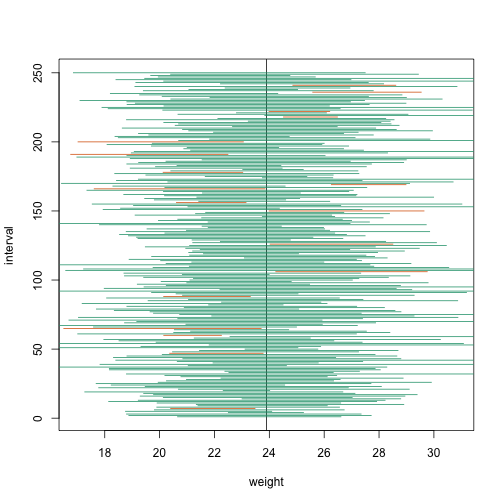
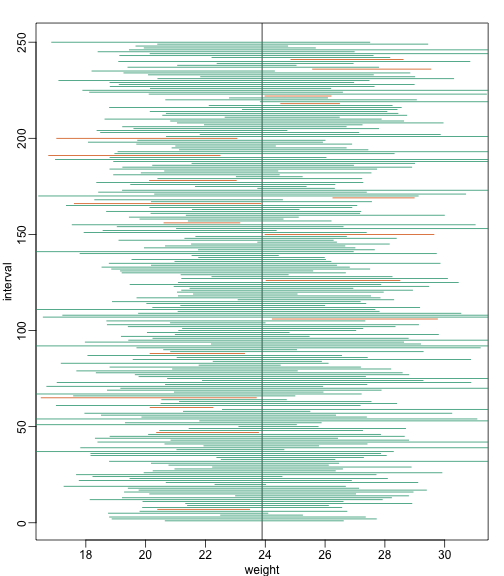
adding confidence_intervals to book

diff --git a/manuscript/confidence_intervals.md b/manuscript/confidence_intervals.md
@@ -106,7 +106,7 @@ which covers {$$}\mu_X{/$$} or `mean(chowPopulation)`. However, we can take anot
 ```r
 library(rafalib)
 B <- 250
-mypar(1,1)
+mypar()
 plot(mean(chowPopulation)+c(-7,7),c(1,1),type="n",
      xlab="weight",ylab="interval",ylim=c(1,B))
 abline(v=mean(chowPopulation))
@@ -133,6 +133,7 @@ For {$$}N=30{/$$} the CLT works very well. However, if {$$}N=5{/$$}, do these co
 
 
 ```r
+mypar()
 plot(mean(chowPopulation)+c(-7,7),c(1,1),type="n",
      xlab="weight",ylab="interval",ylim=c(1,B))
 abline(v=mean(chowPopulation))
@@ -155,14 +156,15 @@ Despite the intervals being larger (we are dividing by {$$}\sqrt{5}{/$$} instead
 
 
 ```r
-plot(mean(chowPopulation)+c(-7,7),c(1,1),type="n",
-     xlab="weight",ylab="interval",ylim=c(1,B))
+mypar()
+plot(mean(chowPopulation) + c(-7,7), c(1,1), type="n",
+     xlab="weight", ylab="interval", ylim=c(1,B))
 abline(v=mean(chowPopulation))
 ##Q <- qnorm(1- 0.05/2) ##no longer normal so use:
 Q <- qt(1- 0.05/2, df=4)
 N<-5
 for(i in 1:B){
-  hf <- sample(chowPopulation,N)
+  hf <- sample(chowPopulation, N)
   se=sd(hf)/sqrt(N)
   interval <- c(mean(hf)-Q*se, mean(hf)+Q*se )
   covered<-mean(chowPopulation)<= interval[2] & mean(chowPopulation)>=interval[1]
@@ -205,18 +207,7 @@ Suppose you use CLT and report {$$}\Delta \pm 2 s_\Delta/\sqrt{N}{/$$} as a 95% 
 Note that the confidence interval for the difference {$$}\Delta{/$$} is provided by the `t.test` function:
 
 
-```r
-library(downloader)
-url <- "https://raw.githubusercontent.com/genomicsclass/dagdata/master/inst/extdata/femaleMiceWeights.csv"
-filename <- "femaleMiceWeights.csv"
-if (!file.exists(filename)) download(url,destfile=filename)
-dat <- read.csv(filename)
-controlIndex <- which(dat$Diet=="chow")
-treatmentIndex <- which(dat$Diet=="hf")
-control <- dat[controlIndex,2]
-treatment <- dat[treatmentIndex,2]
-t.test(treatment,control)
-```
+
 
 ```
 ## 
